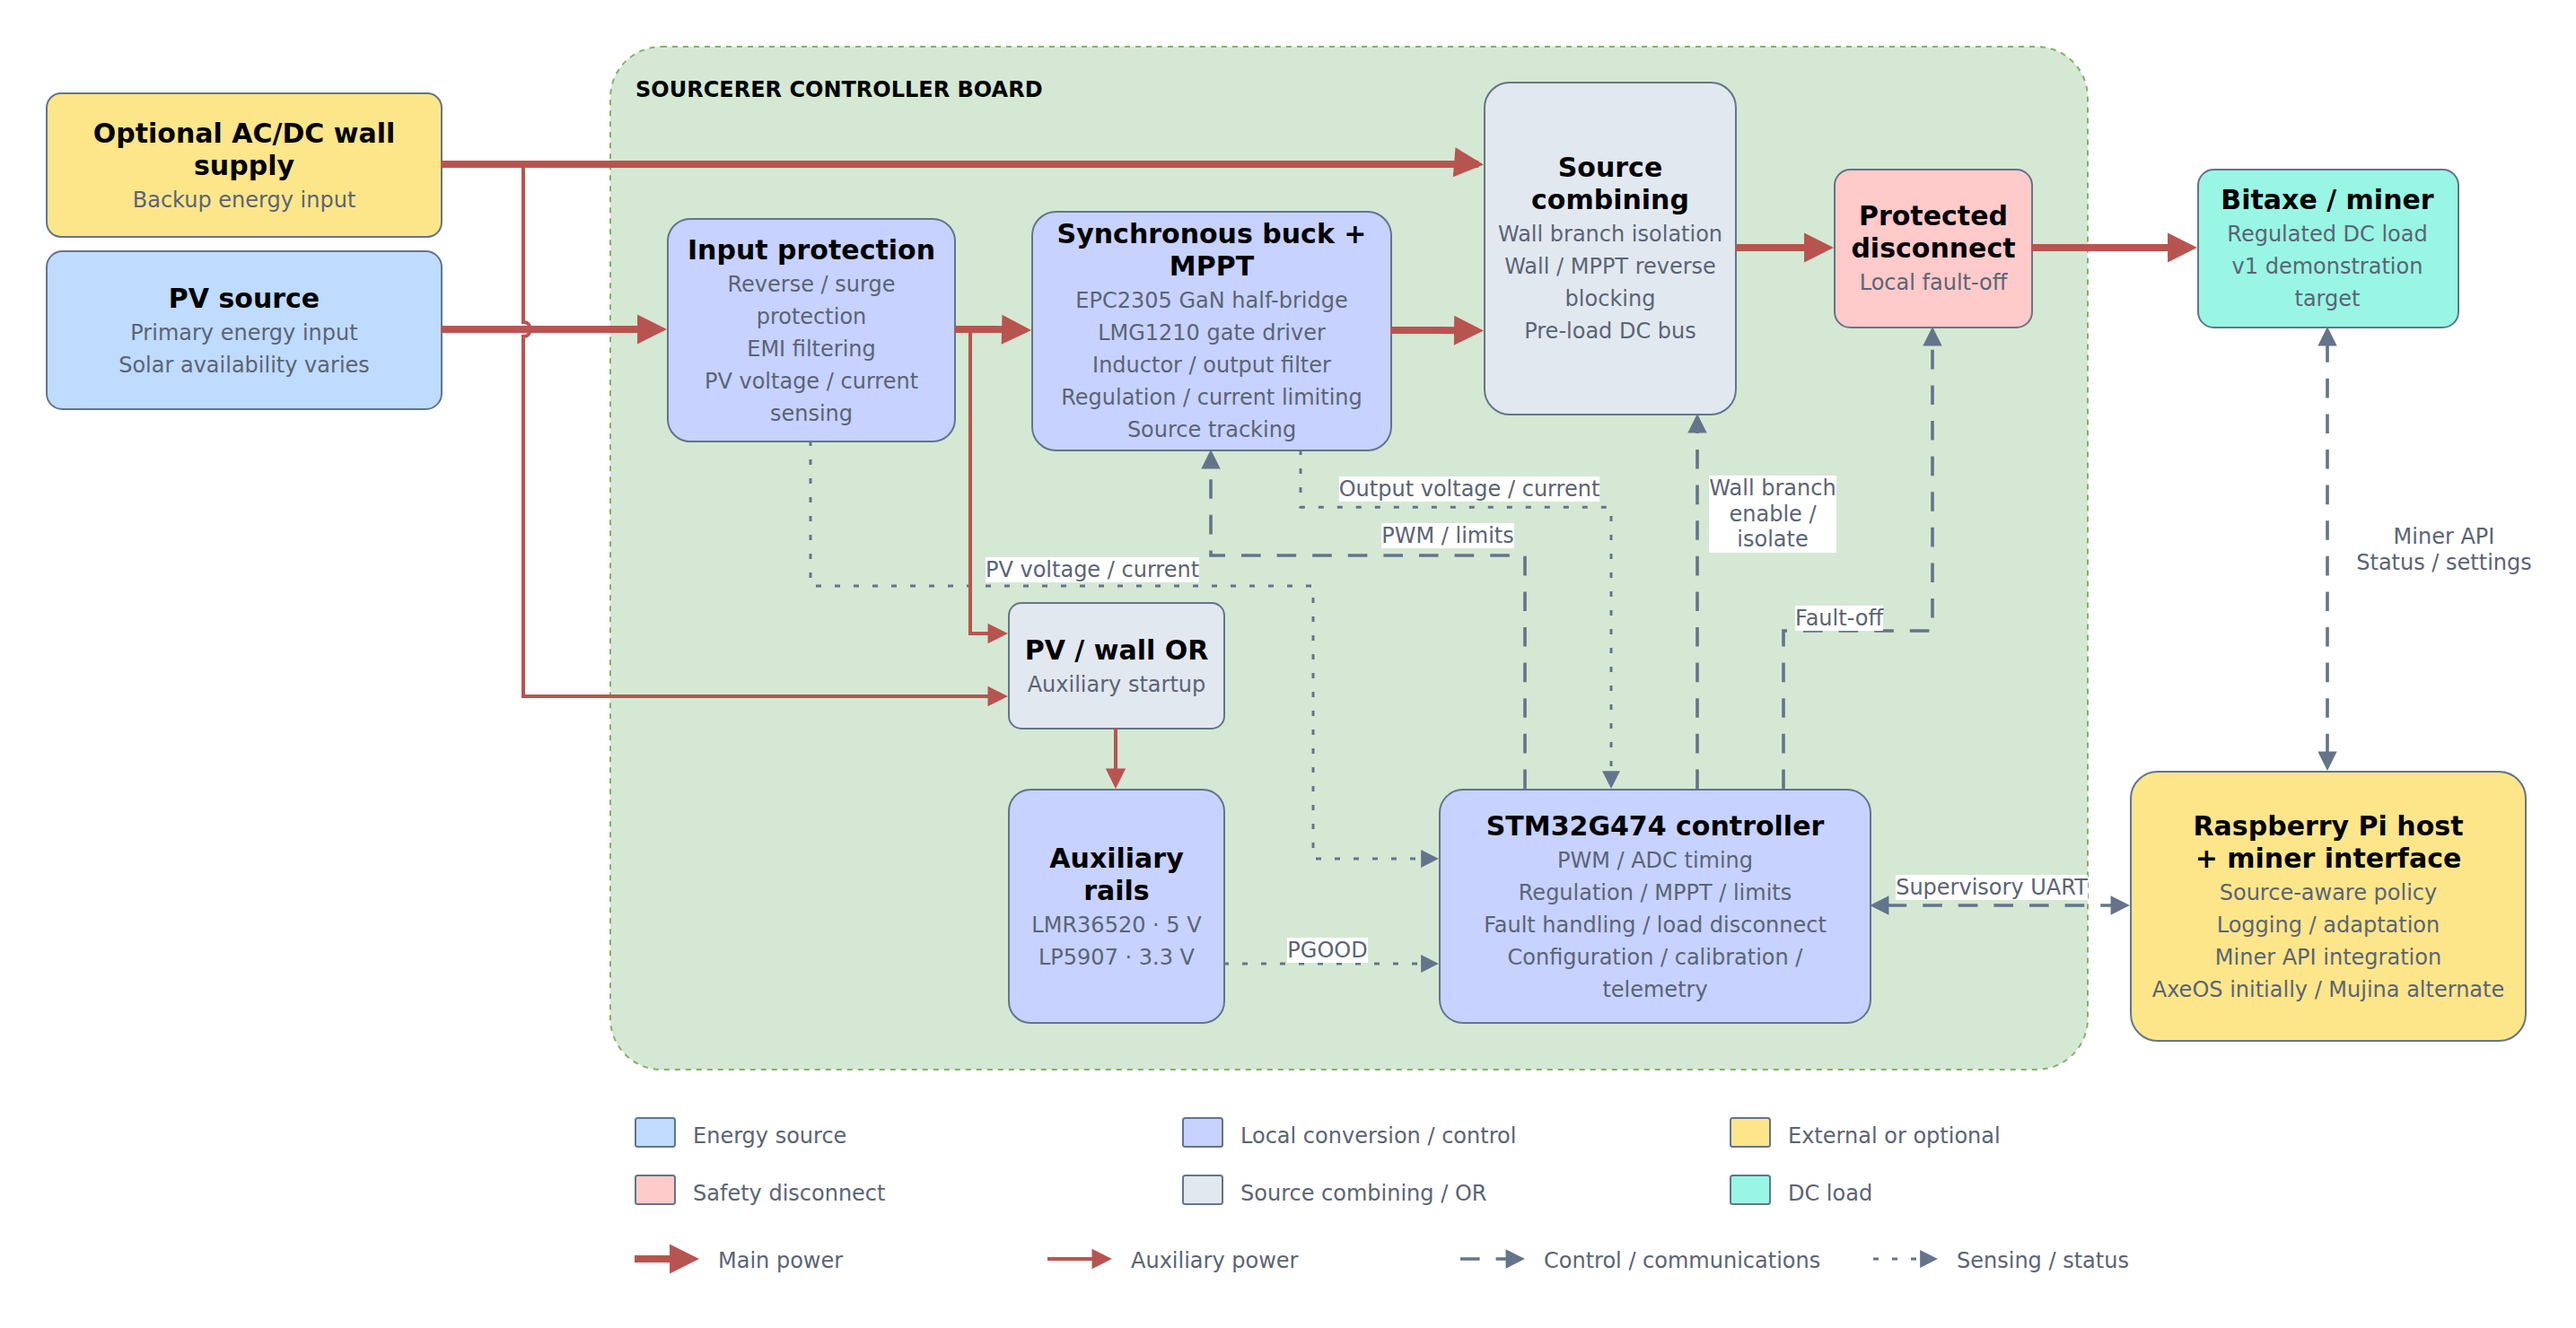
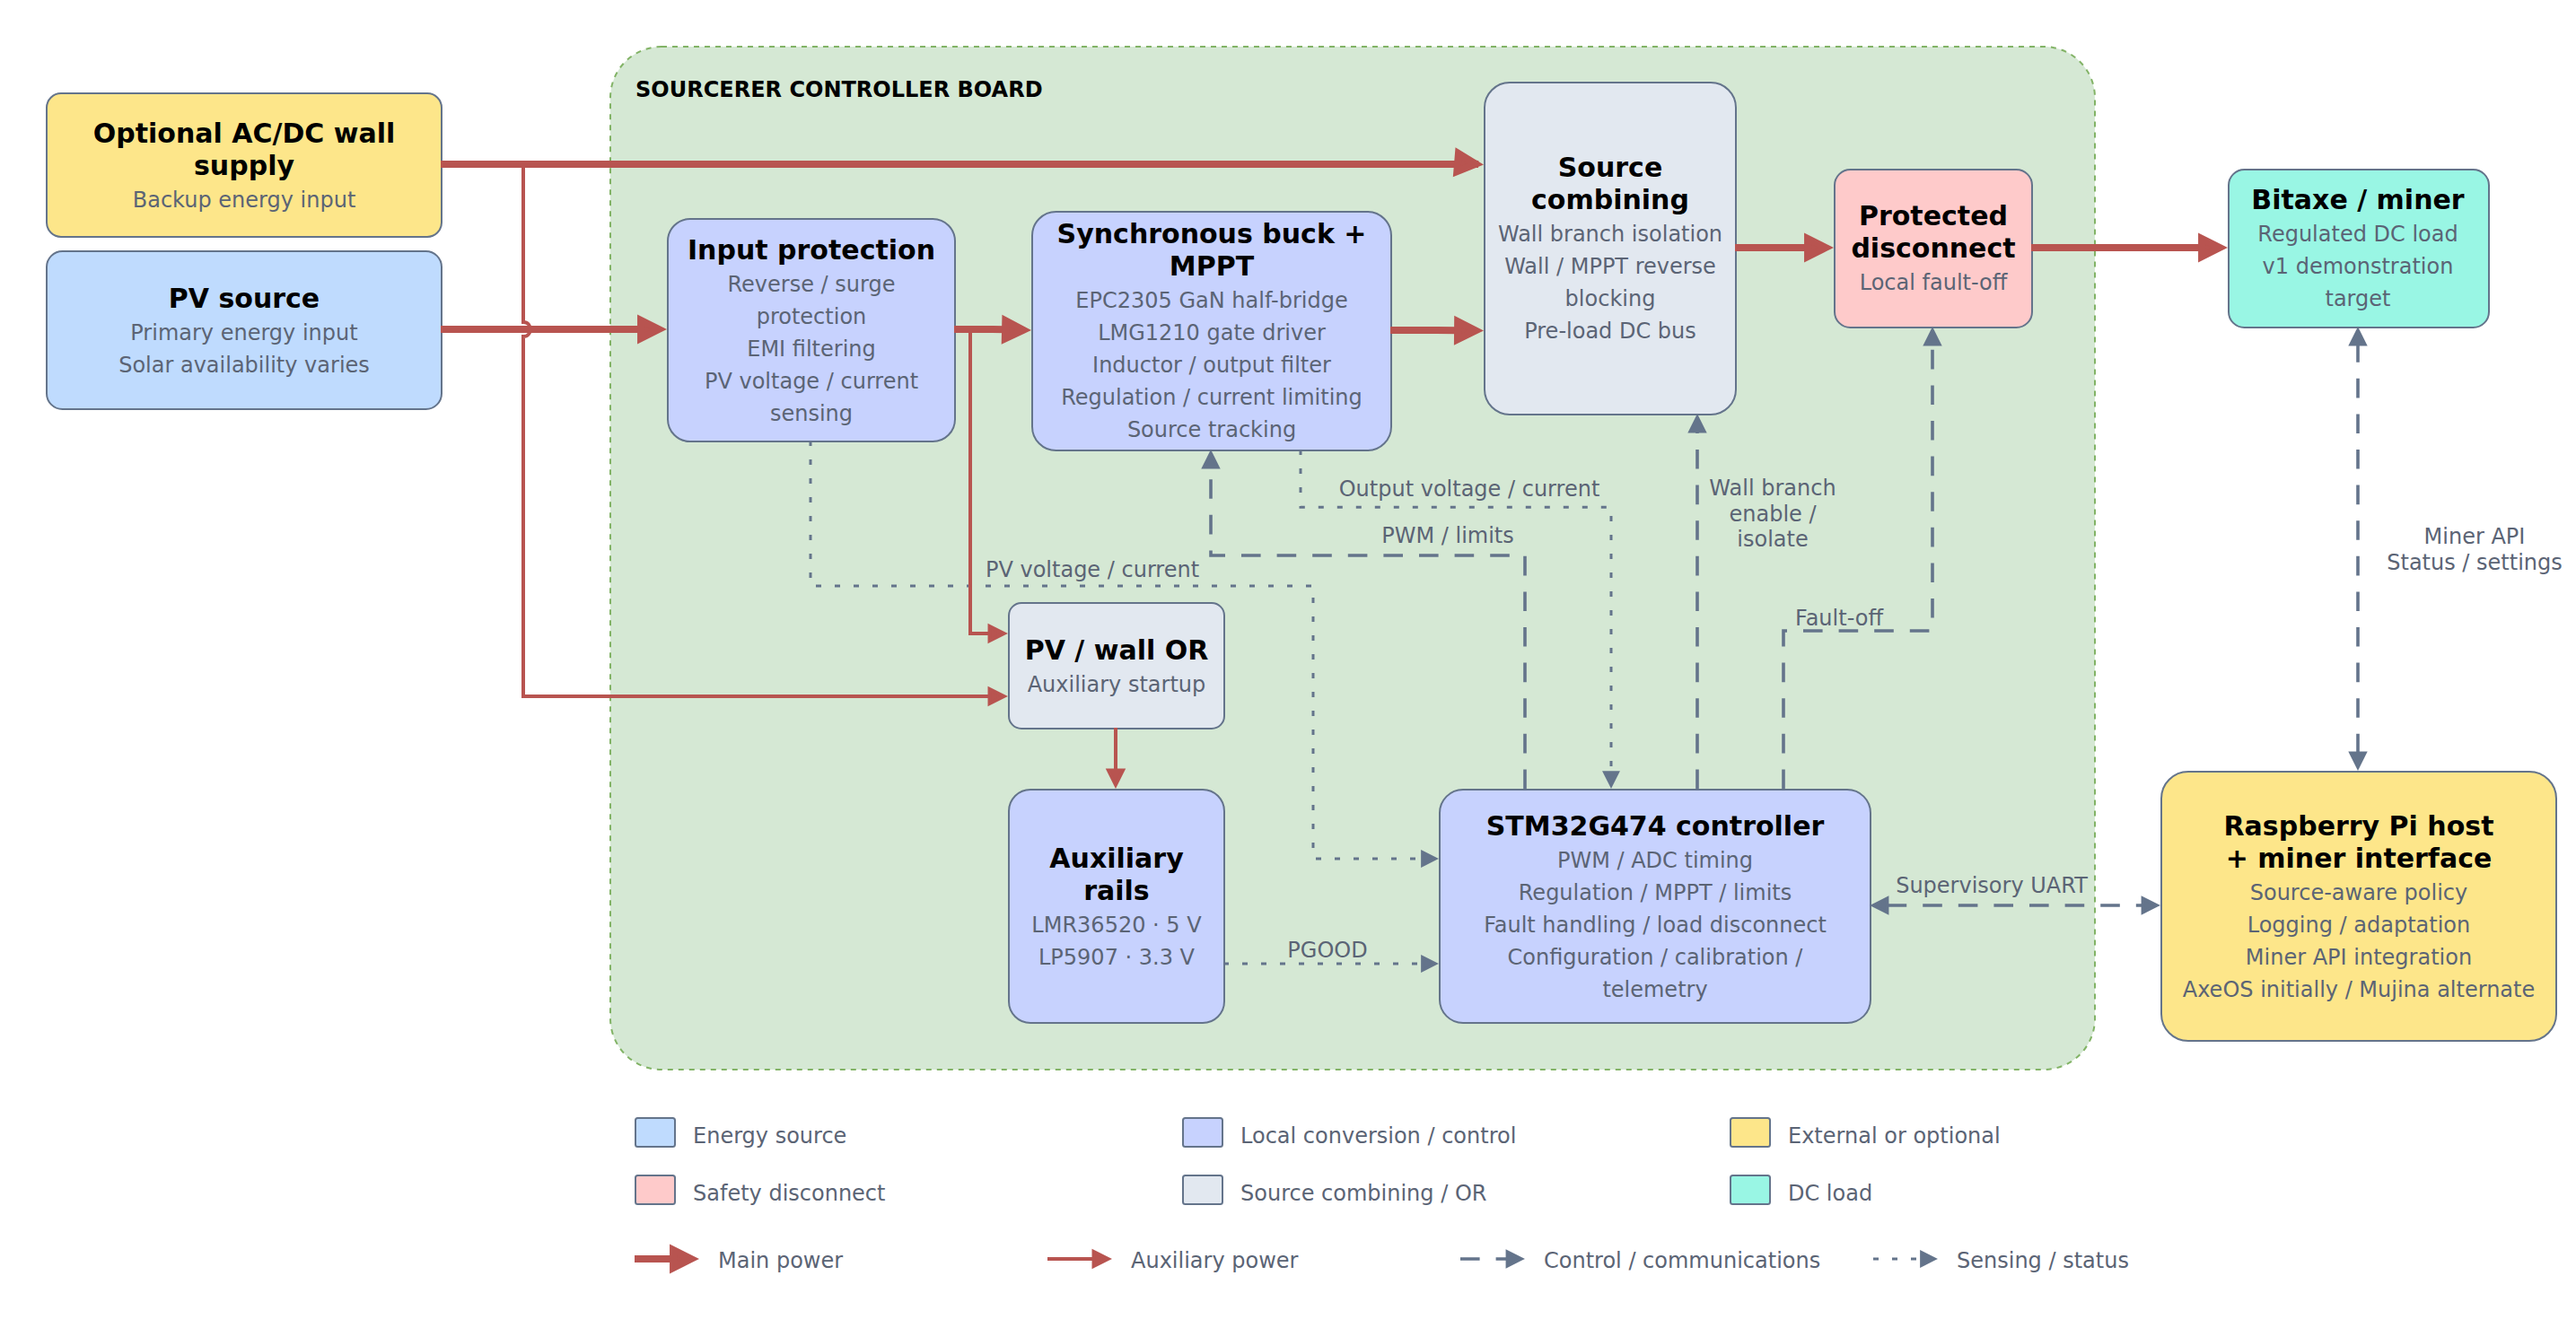
Refine README introduction and refresh system overview

diff --git a/README.md b/README.md
@@ -1,13 +1,7 @@
 # Sourcerer
 
 Sourcerer is a digitally controlled solar MPPT power source with miner-aware
-power budgeting and an optional wall-assist path. Hardware schematic capture
-and STM32G474 peripheral planning are active; PCB layout and closed-loop
-firmware are not yet complete.
-
-## v1 Concept
-
-![Sourcerer v1 system overview showing power paths, local control, and miner coordination](assets/sourcerer-system-overview.png)
+power budgeting and an optional wall-assist path.
 
 Sourcerer is being developed as an open reference platform for solar-powered
 Bitcoin mining. It prioritizes safe power-supply behavior while allowing the
@@ -15,6 +9,8 @@ converter and a connected Bitaxe to coordinate around available solar power.
 
 An optional isolated wall-supply path can maintain load operation when solar
 power is insufficient, while available solar power displaces wall power.
+
+![Sourcerer v1 system overview showing power paths, local control, and miner coordination](assets/sourcerer-system-overview.png)
 
 ## Backend-Neutral Miner Integration
 
